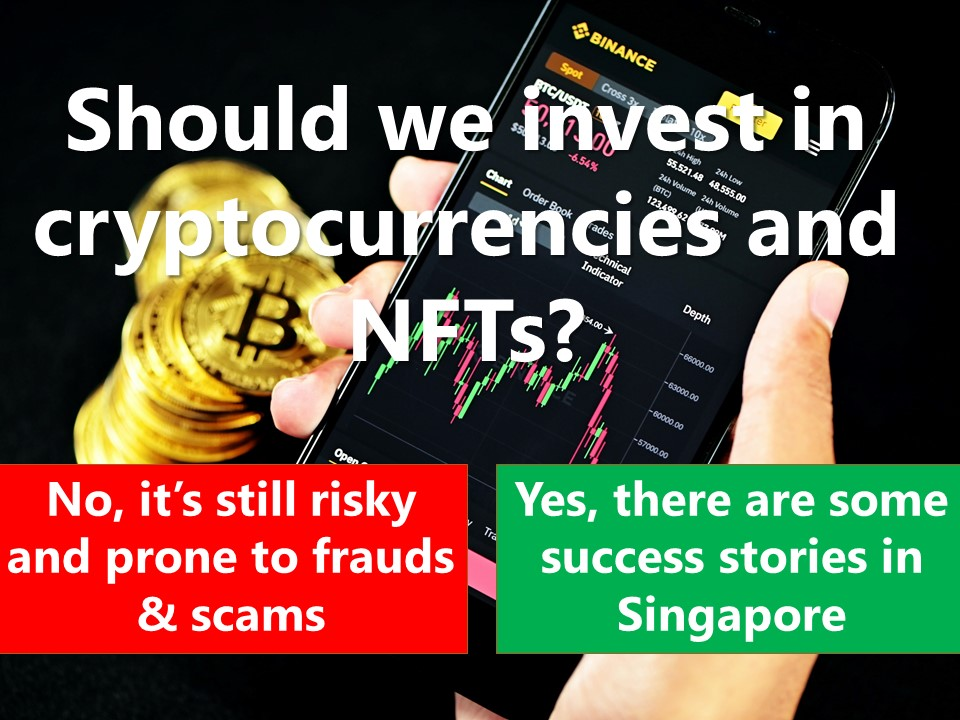
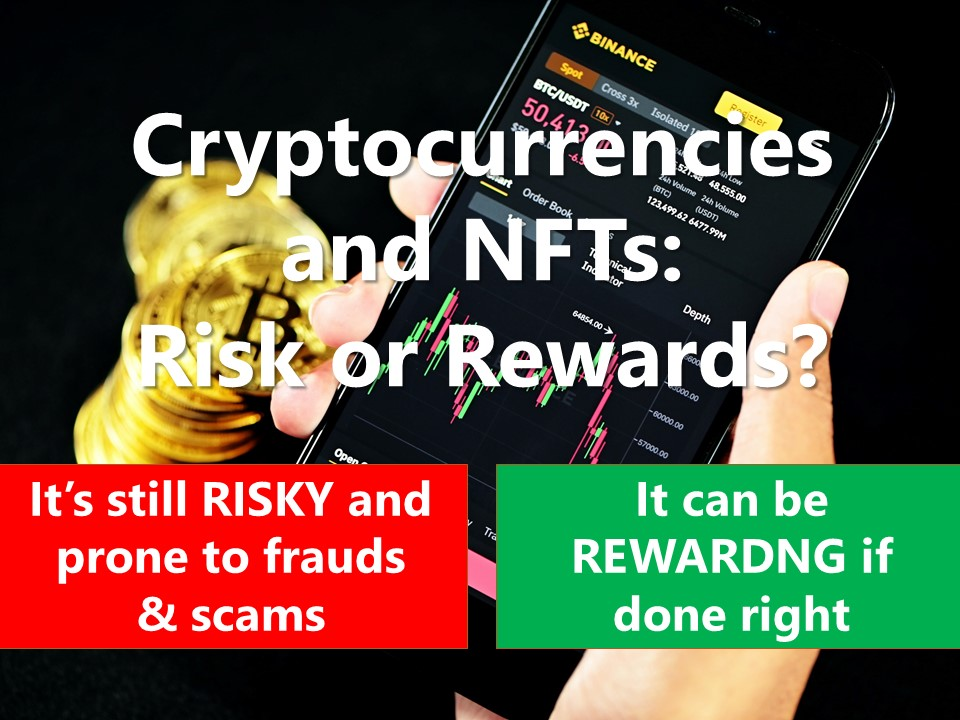
RTBS3

diff --git a/_read-to-be-sure/3a-rtbs03-overview.md b/_read-to-be-sure/3a-rtbs03-overview.md
@@ -1,8 +1,8 @@
 ---
-title: 'Overview'
+title: 'Risk or Rewards?'
 permalink: /read-to-be-sure/issue3-overview/
-breadcrumb: 'Overview'
-third_nav_title: 'Issue #3: Should we invest in cryptocurrencies and NFTs?'
+breadcrumb: 'Risk or Rewards?'
+third_nav_title: 'Issue #3: Cryptocurrencies and NFTs: Risk or Rewards?'
 
 ---
 

diff --git a/_read-to-be-sure/3b-rtbs03-conversations.md b/_read-to-be-sure/3b-rtbs03-conversations.md
@@ -2,7 +2,7 @@
 title: 'Conversations'
 permalink: /read-to-be-sure/issue3-conversations/
 breadcrumb: 'Conversations'
-third_nav_title: 'Issue #3: Should we invest in cryptocurrencies and NFTs?'
+third_nav_title: 'Issue #3: Cryptocurrencies and NFTs: Risk or Rewards?'
 
 ---
 
